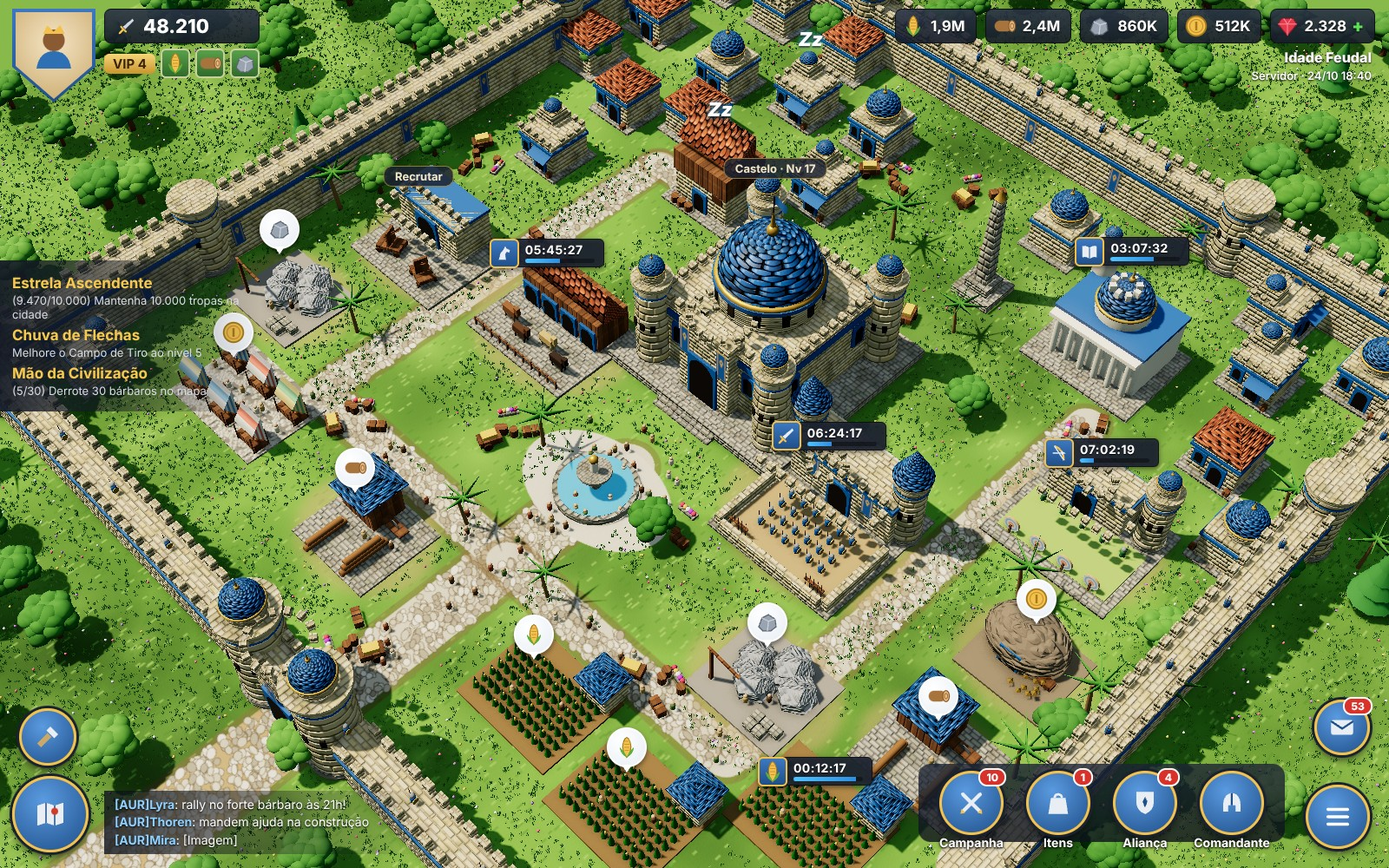
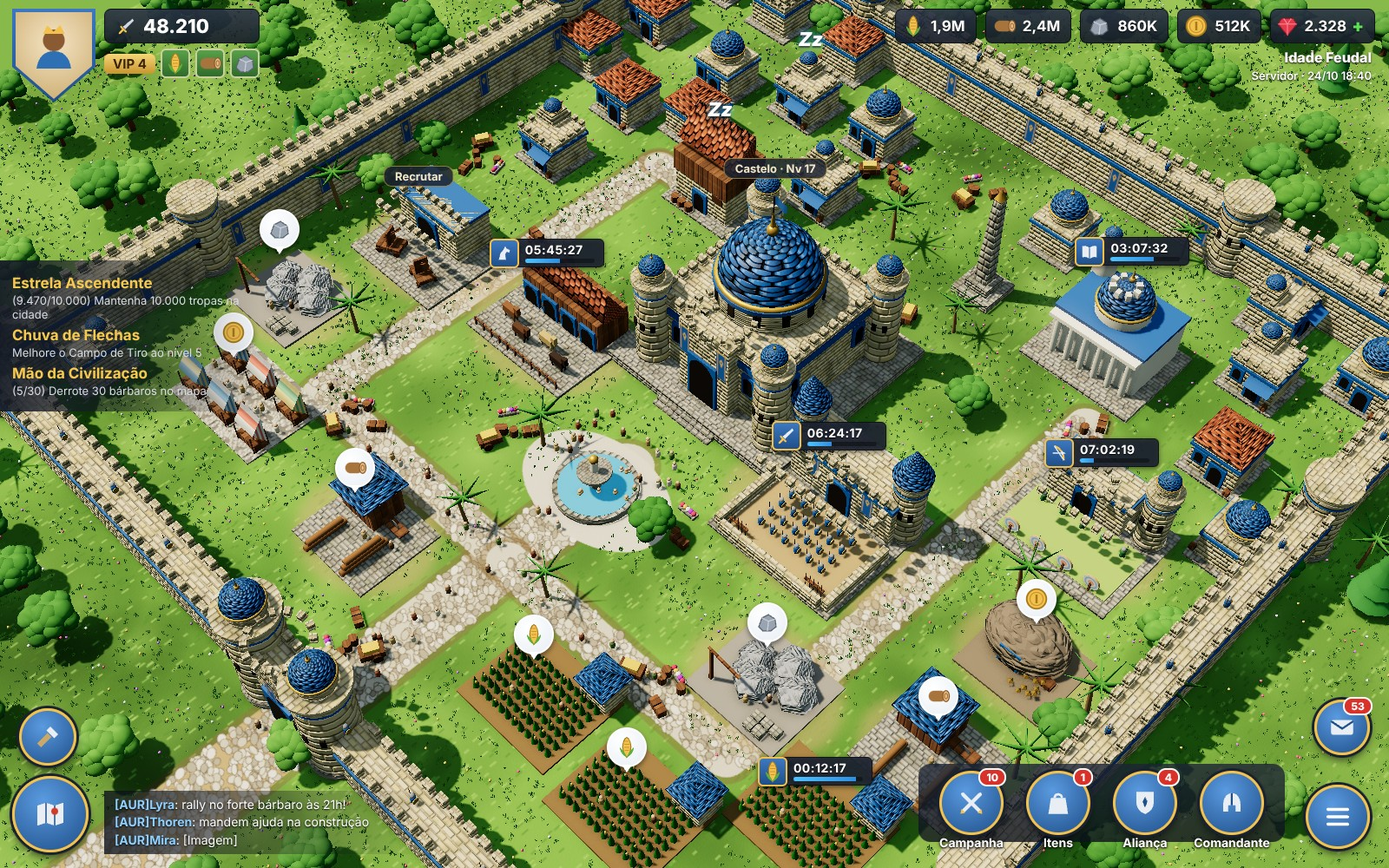
docs: gramado menos ruidoso na vista geral
Claude-Session: https://claude.ai/code/session_01Jg1PZW8qTbskMXCkNiRhHp

diff --git a/docs/concepts/estilo-3d/fonte/rok.html b/docs/concepts/estilo-3d/fonte/rok.html
@@ -130,7 +130,7 @@ scene.add(R.trees(tp));
 // tufos de grama e flores (instanciados) para dar textura ao gramado
 {
   const blade = R.mergeGeometries([0, 1, 2, 3].map((i) => new THREE.ConeGeometry(0.09, 0.7 + (i % 2) * 0.3, 3).translate(Math.cos(i * 1.9) * 0.14, 0.35, Math.sin(i * 1.9) * 0.14).rotateZ((i - 1.5) * 0.18).toNonIndexed()));
-  const N = 70000; const im = new THREE.InstancedMesh(blade, R.M('#ffffff', { roughness: 1 }), N); const o = new THREE.Object3D(); const c = new THREE.Color(); let n = 0; const tmp = new THREE.Vector3();
+  const N = 32000; const im = new THREE.InstancedMesh(blade, R.M('#ffffff', { roughness: 1 }), N); const o = new THREE.Object3D(); const c = new THREE.Color(); let n = 0; const tmp = new THREE.Vector3();
   const onRoad = (x, z) => (Math.abs(x) < 4.5 && z > 10) || (Math.abs(z - 30 * SC) < 3 && Math.abs(x) < 30 * SC) || (Math.abs(Math.abs(x) - 30 * SC) < 3 && z < 30 * SC && z > -24 * SC);
   for (let k = 0; k < N * 3 && n < N; k++) {
     const x = (rr() - 0.5) * 190, z = (rr() - 0.5) * 190;
